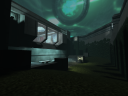
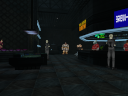
Updated screenshots to represent current progress (i.e., multi-skinned meshes w/ basic effects).

diff --git a/readme.md b/readme.md
@@ -27,10 +27,10 @@ It's important to note that this project is operating to reimplement the game th
 
 ## Features
 
-[![Screenshot](preview/thumb_01.png)](preview/01.webp)
+[![Screenshot](preview/thumb_01.png)](preview/01.png)
 [![Screenshot](preview/thumb_02.png)](preview/02.webp)
 [![Screenshot](preview/thumb_03.png)](preview/03.webp)
-[![Screenshot](preview/thumb_04.png)](preview/04.webp)
+[![Screenshot](preview/thumb_04.png)](preview/04.png)
 [![Screenshot](preview/thumb_06.png)](preview/06.webp)
 
 It's still in a very early stage of development, so nothing is playable yet.
